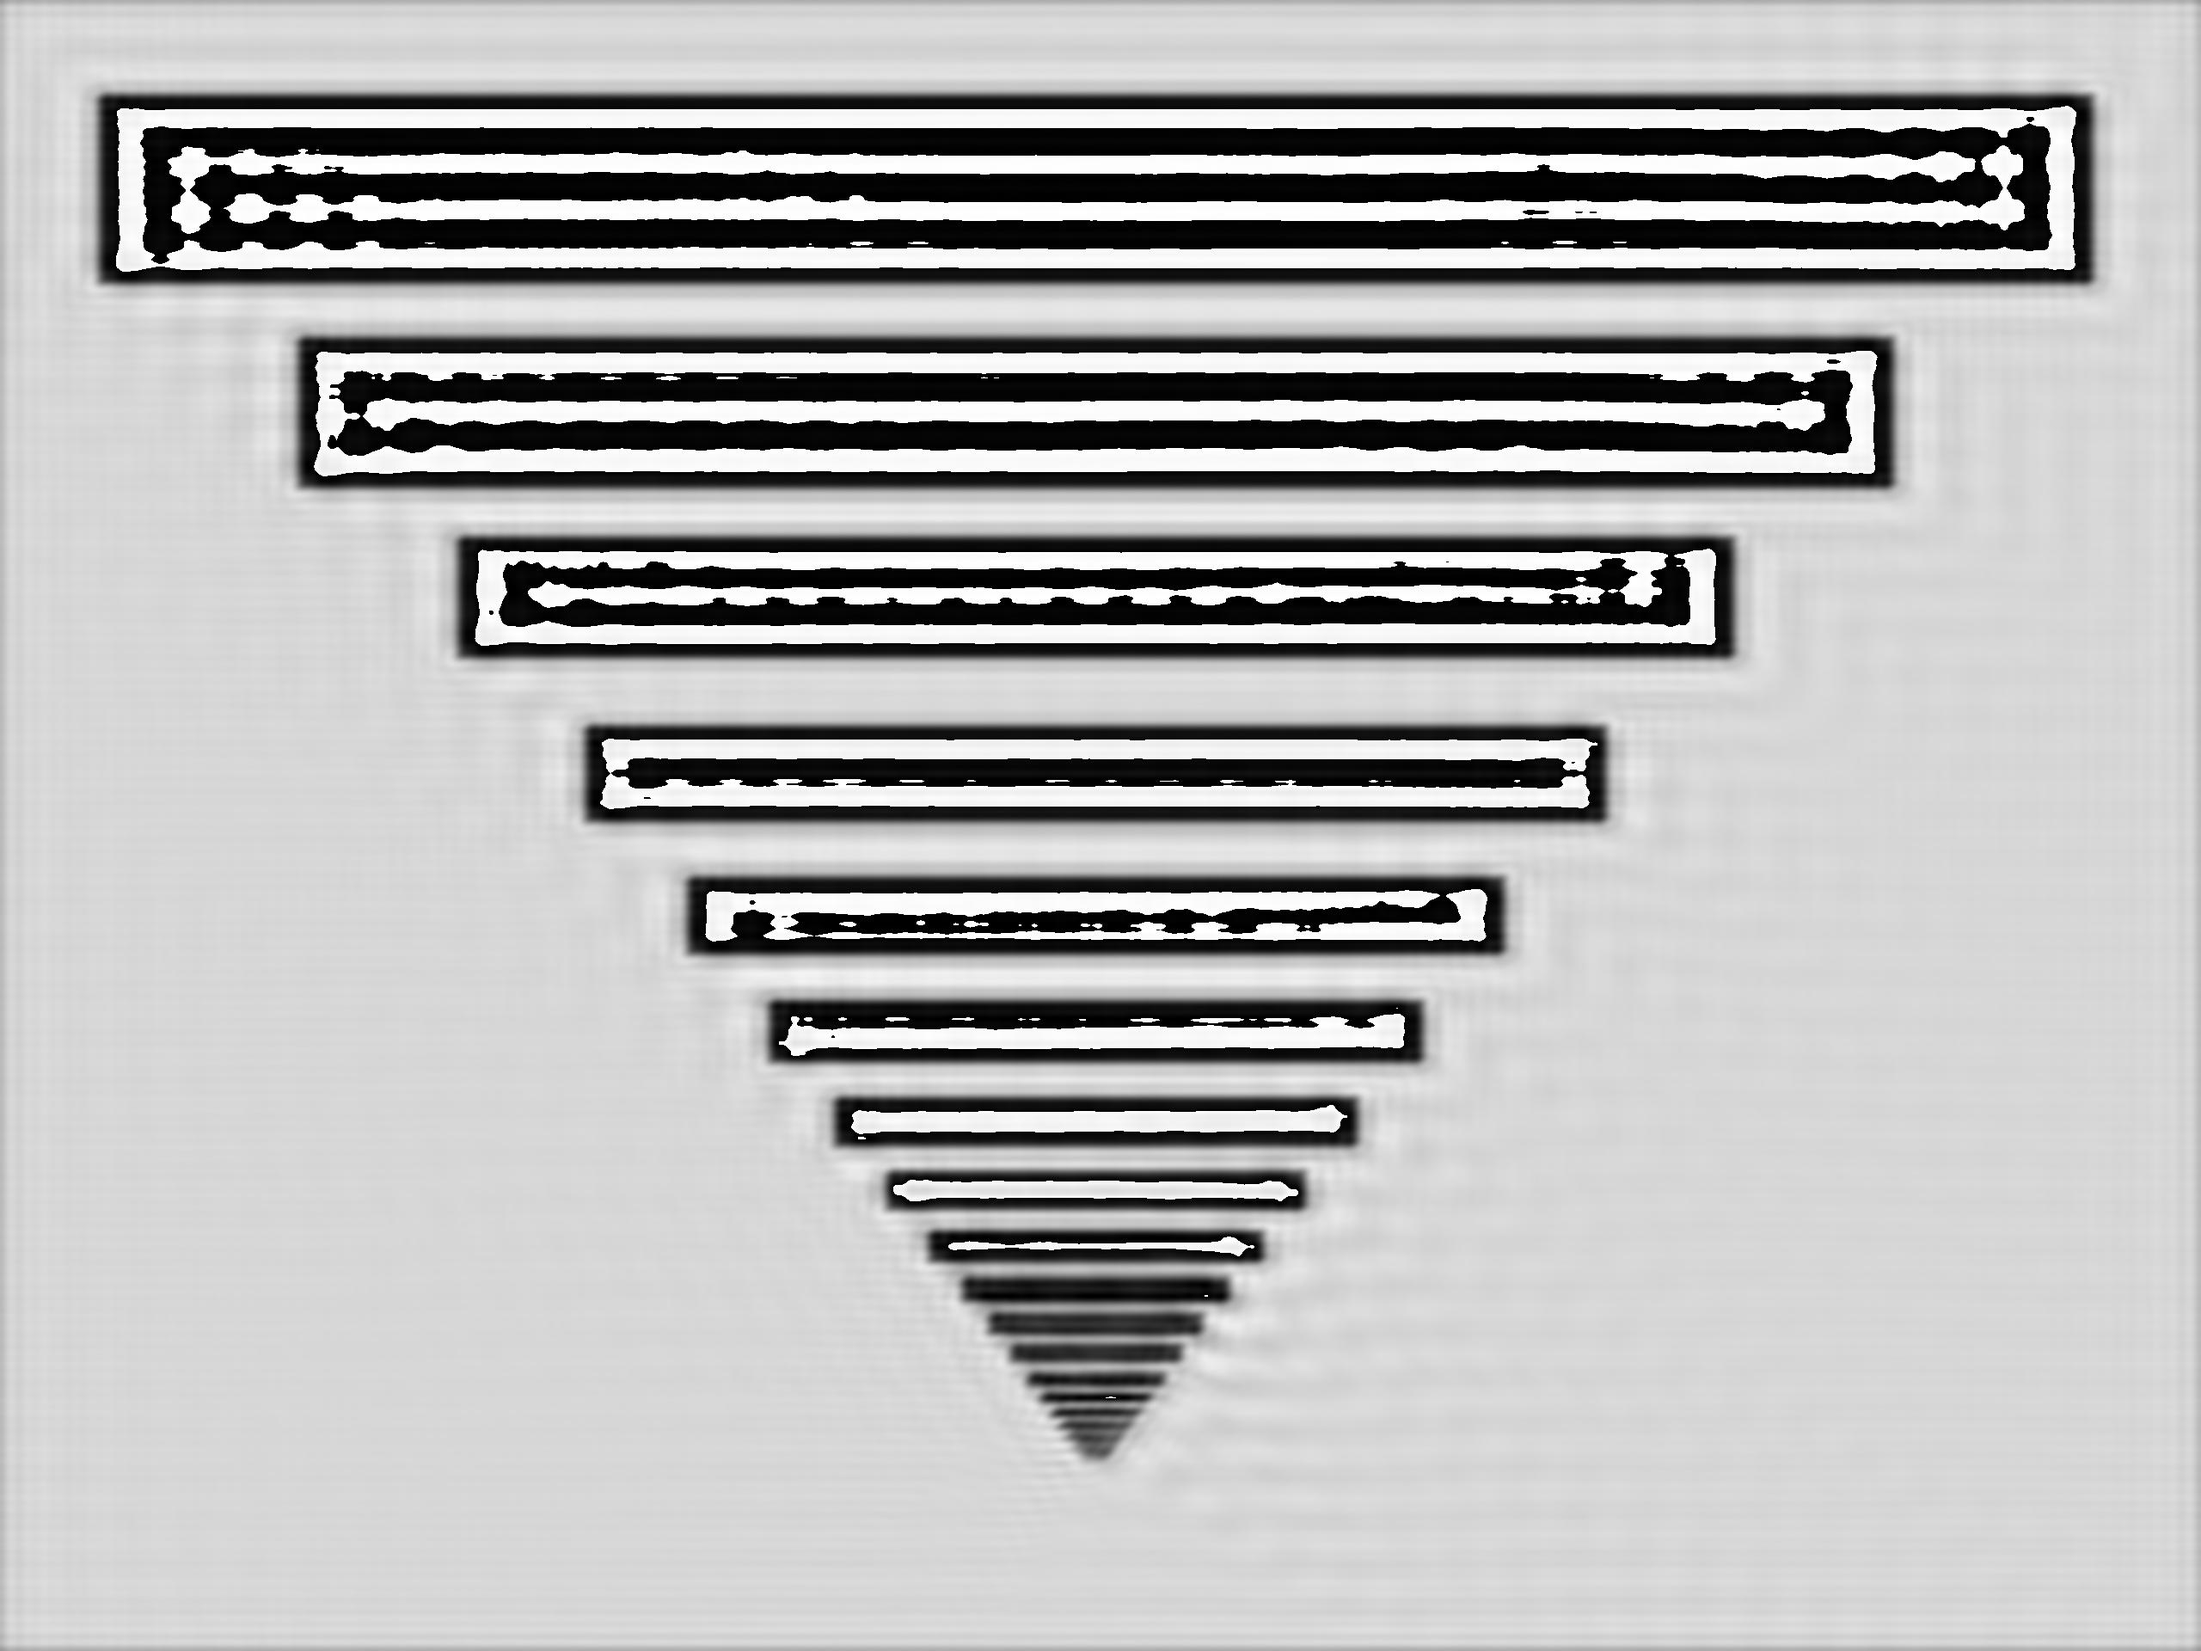
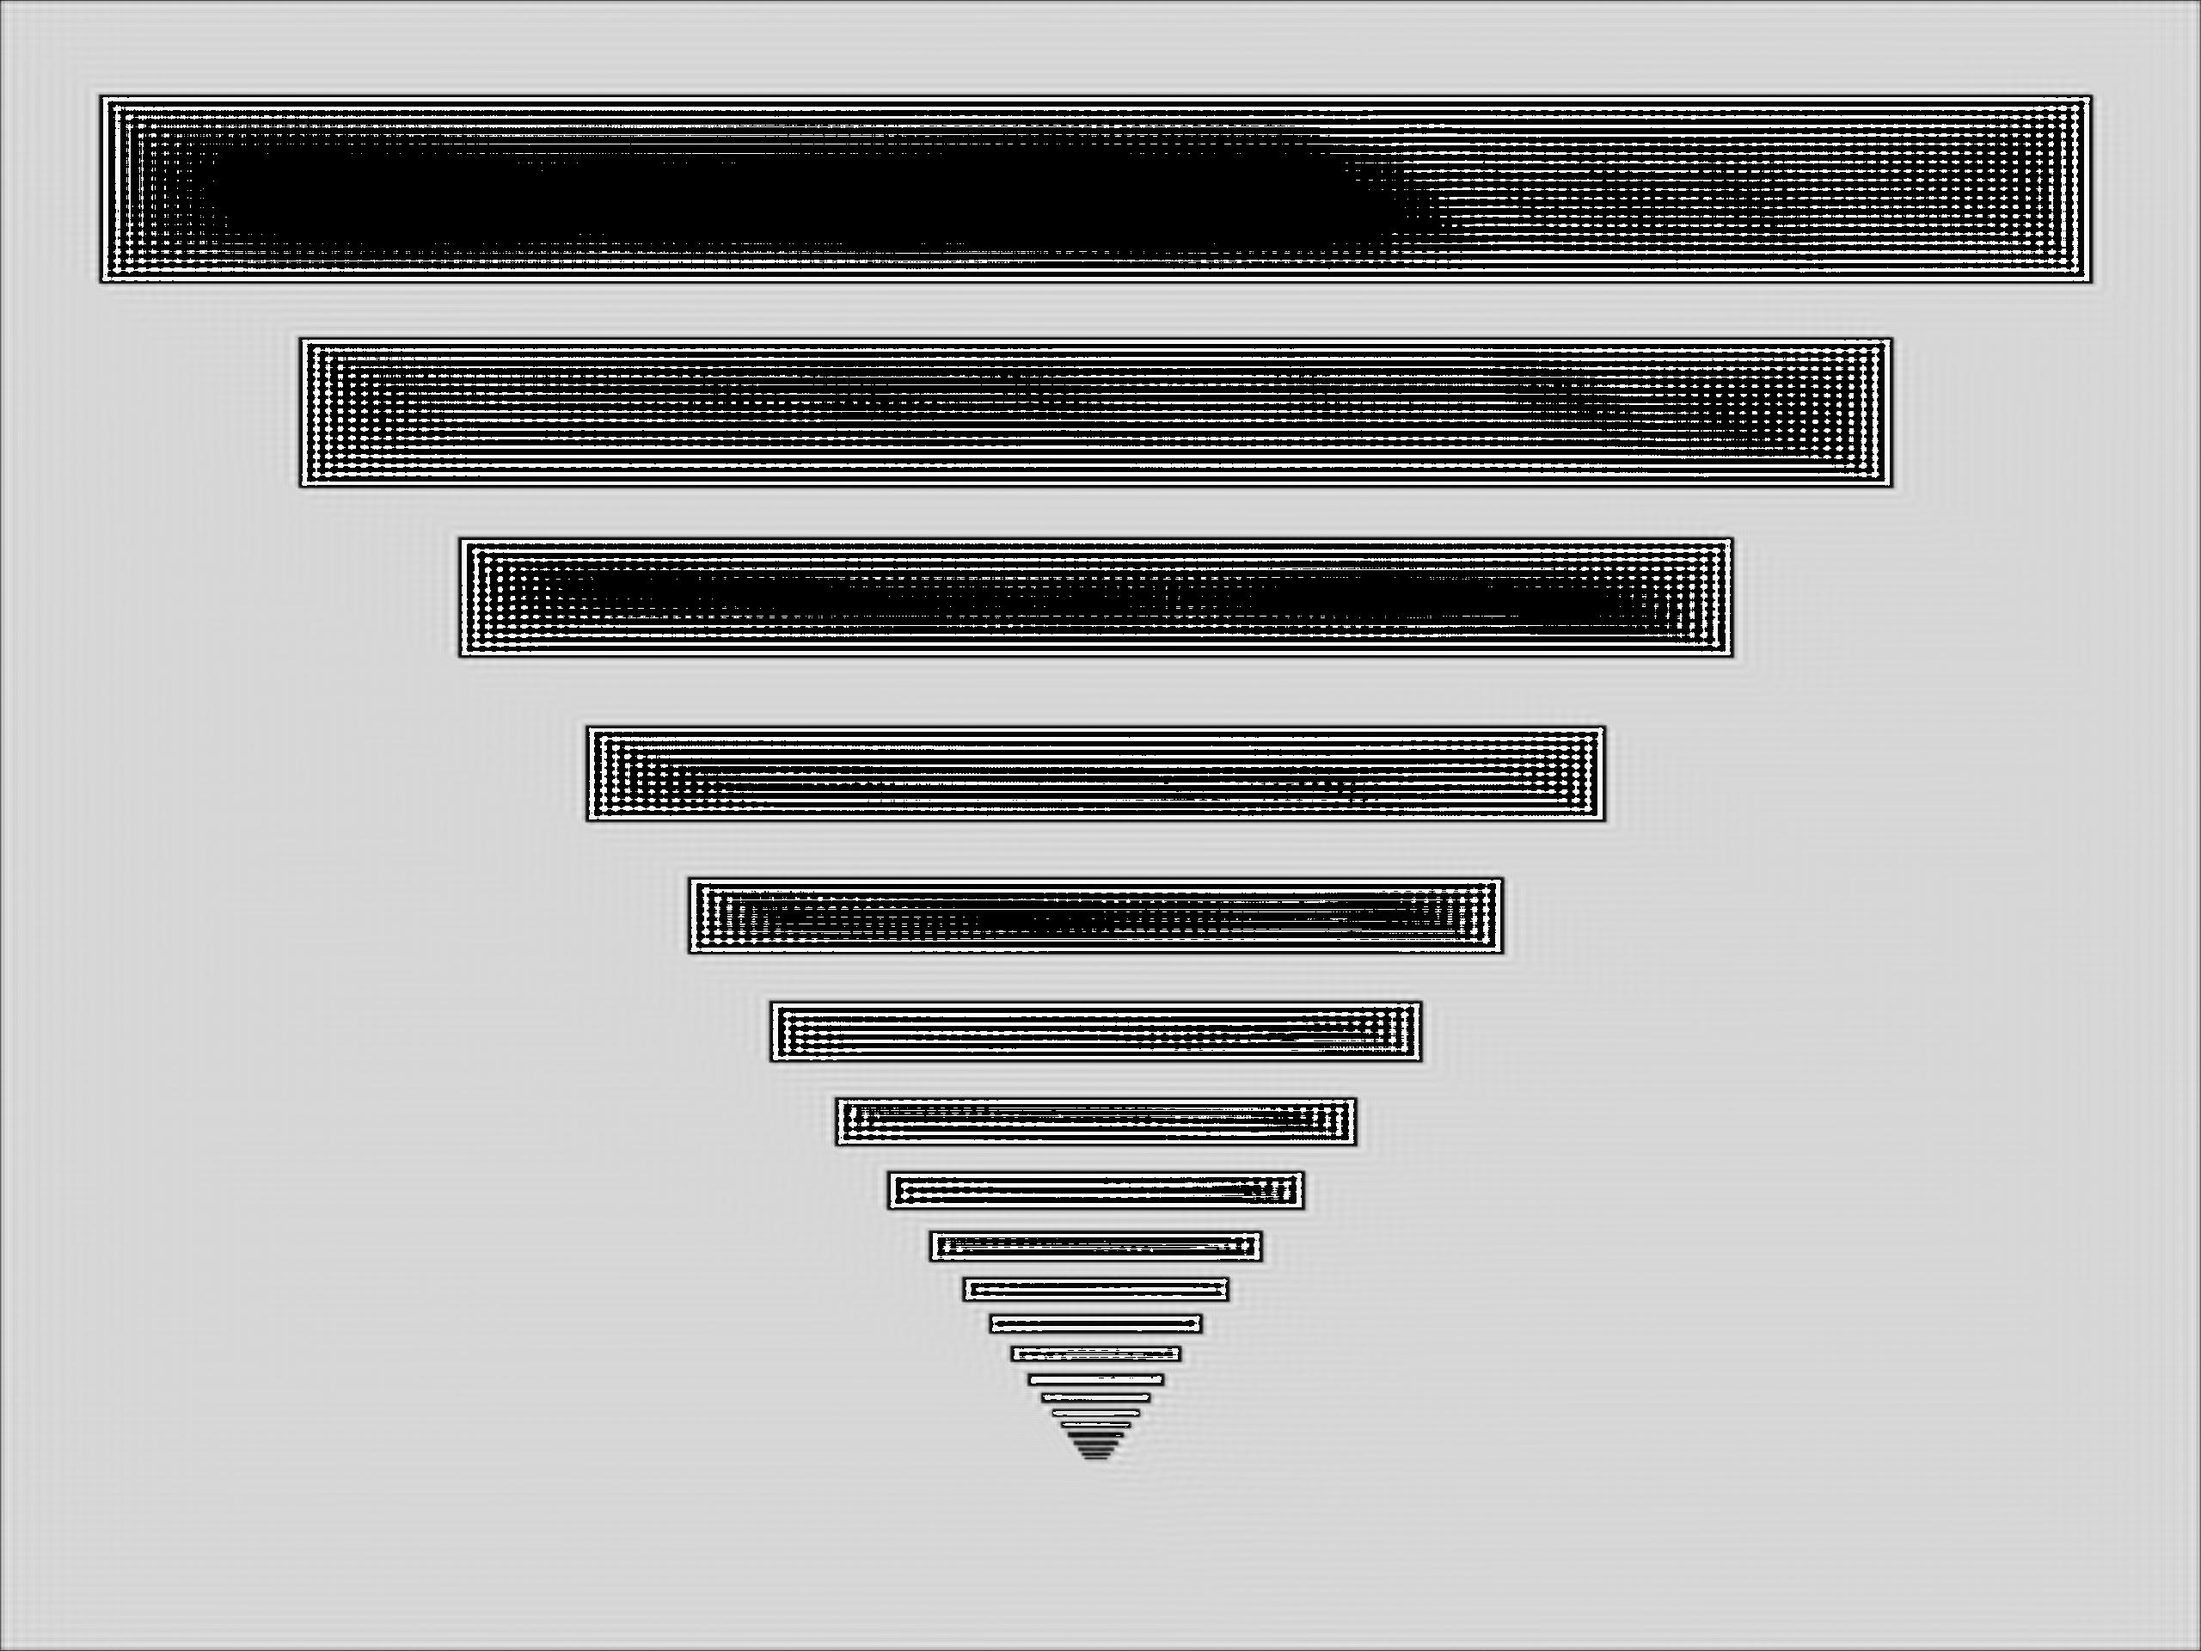
generated fpm test images with larger radius pupil and more distance spread

Changed region(s): [[0.0312, 0.0312, 0.9688, 0.4062], [0.25, 0.4375, 0.75, 0.875]]

diff --git a/generate_fpm.py b/generate_fpm.py
@@ -55,11 +55,11 @@ final_image = numpy.zeros(image.shape)	# empty array for our final image
 xax = 3 
 yax = 3
 
-radius = 100
+radius = 500
 cx = image.shape[0]/2
 cy = image.shape[1]/2
 
-fshift = 50
+fshift = 250
 
 # and it shall be so!
 for m in range(0, xax):
@@ -97,10 +97,11 @@ for m in range(0, xax):
     print("saving...")
     image_modi.save('./images/fpm_artificial/' + str(m) + str(n) + '.jpg')
 
+    '''
     pylab.figure()
     pylab.imshow(image_modi)		# display in colour space
 
     pylab.figure()
     pylab.imshow(numpy.log10(psd+1))
-
+    '''
 # pylab.show()
